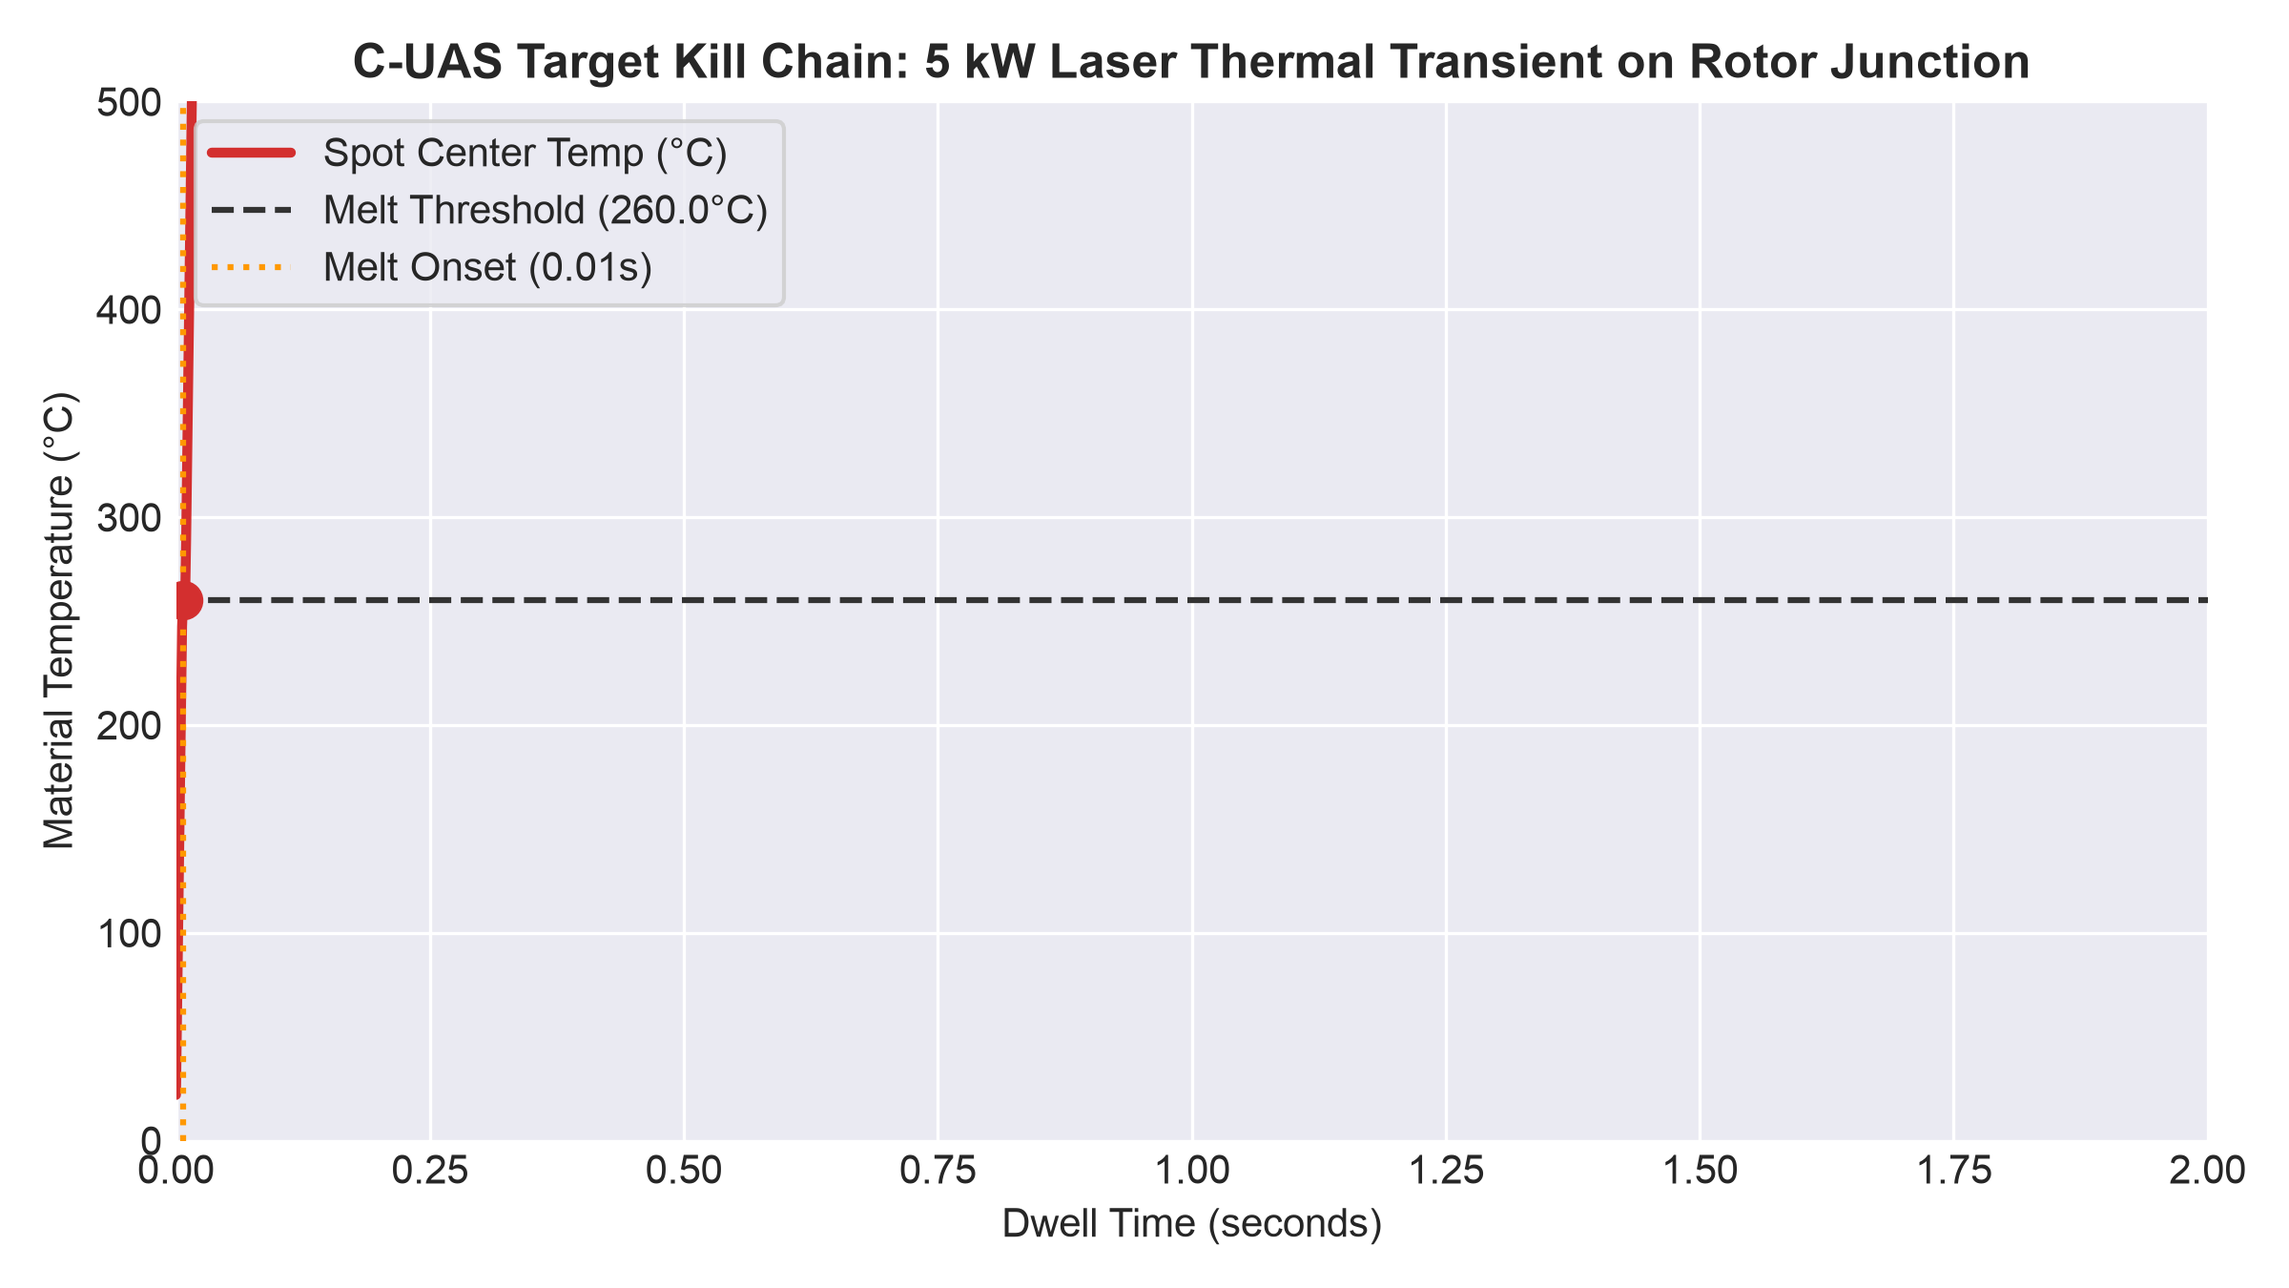
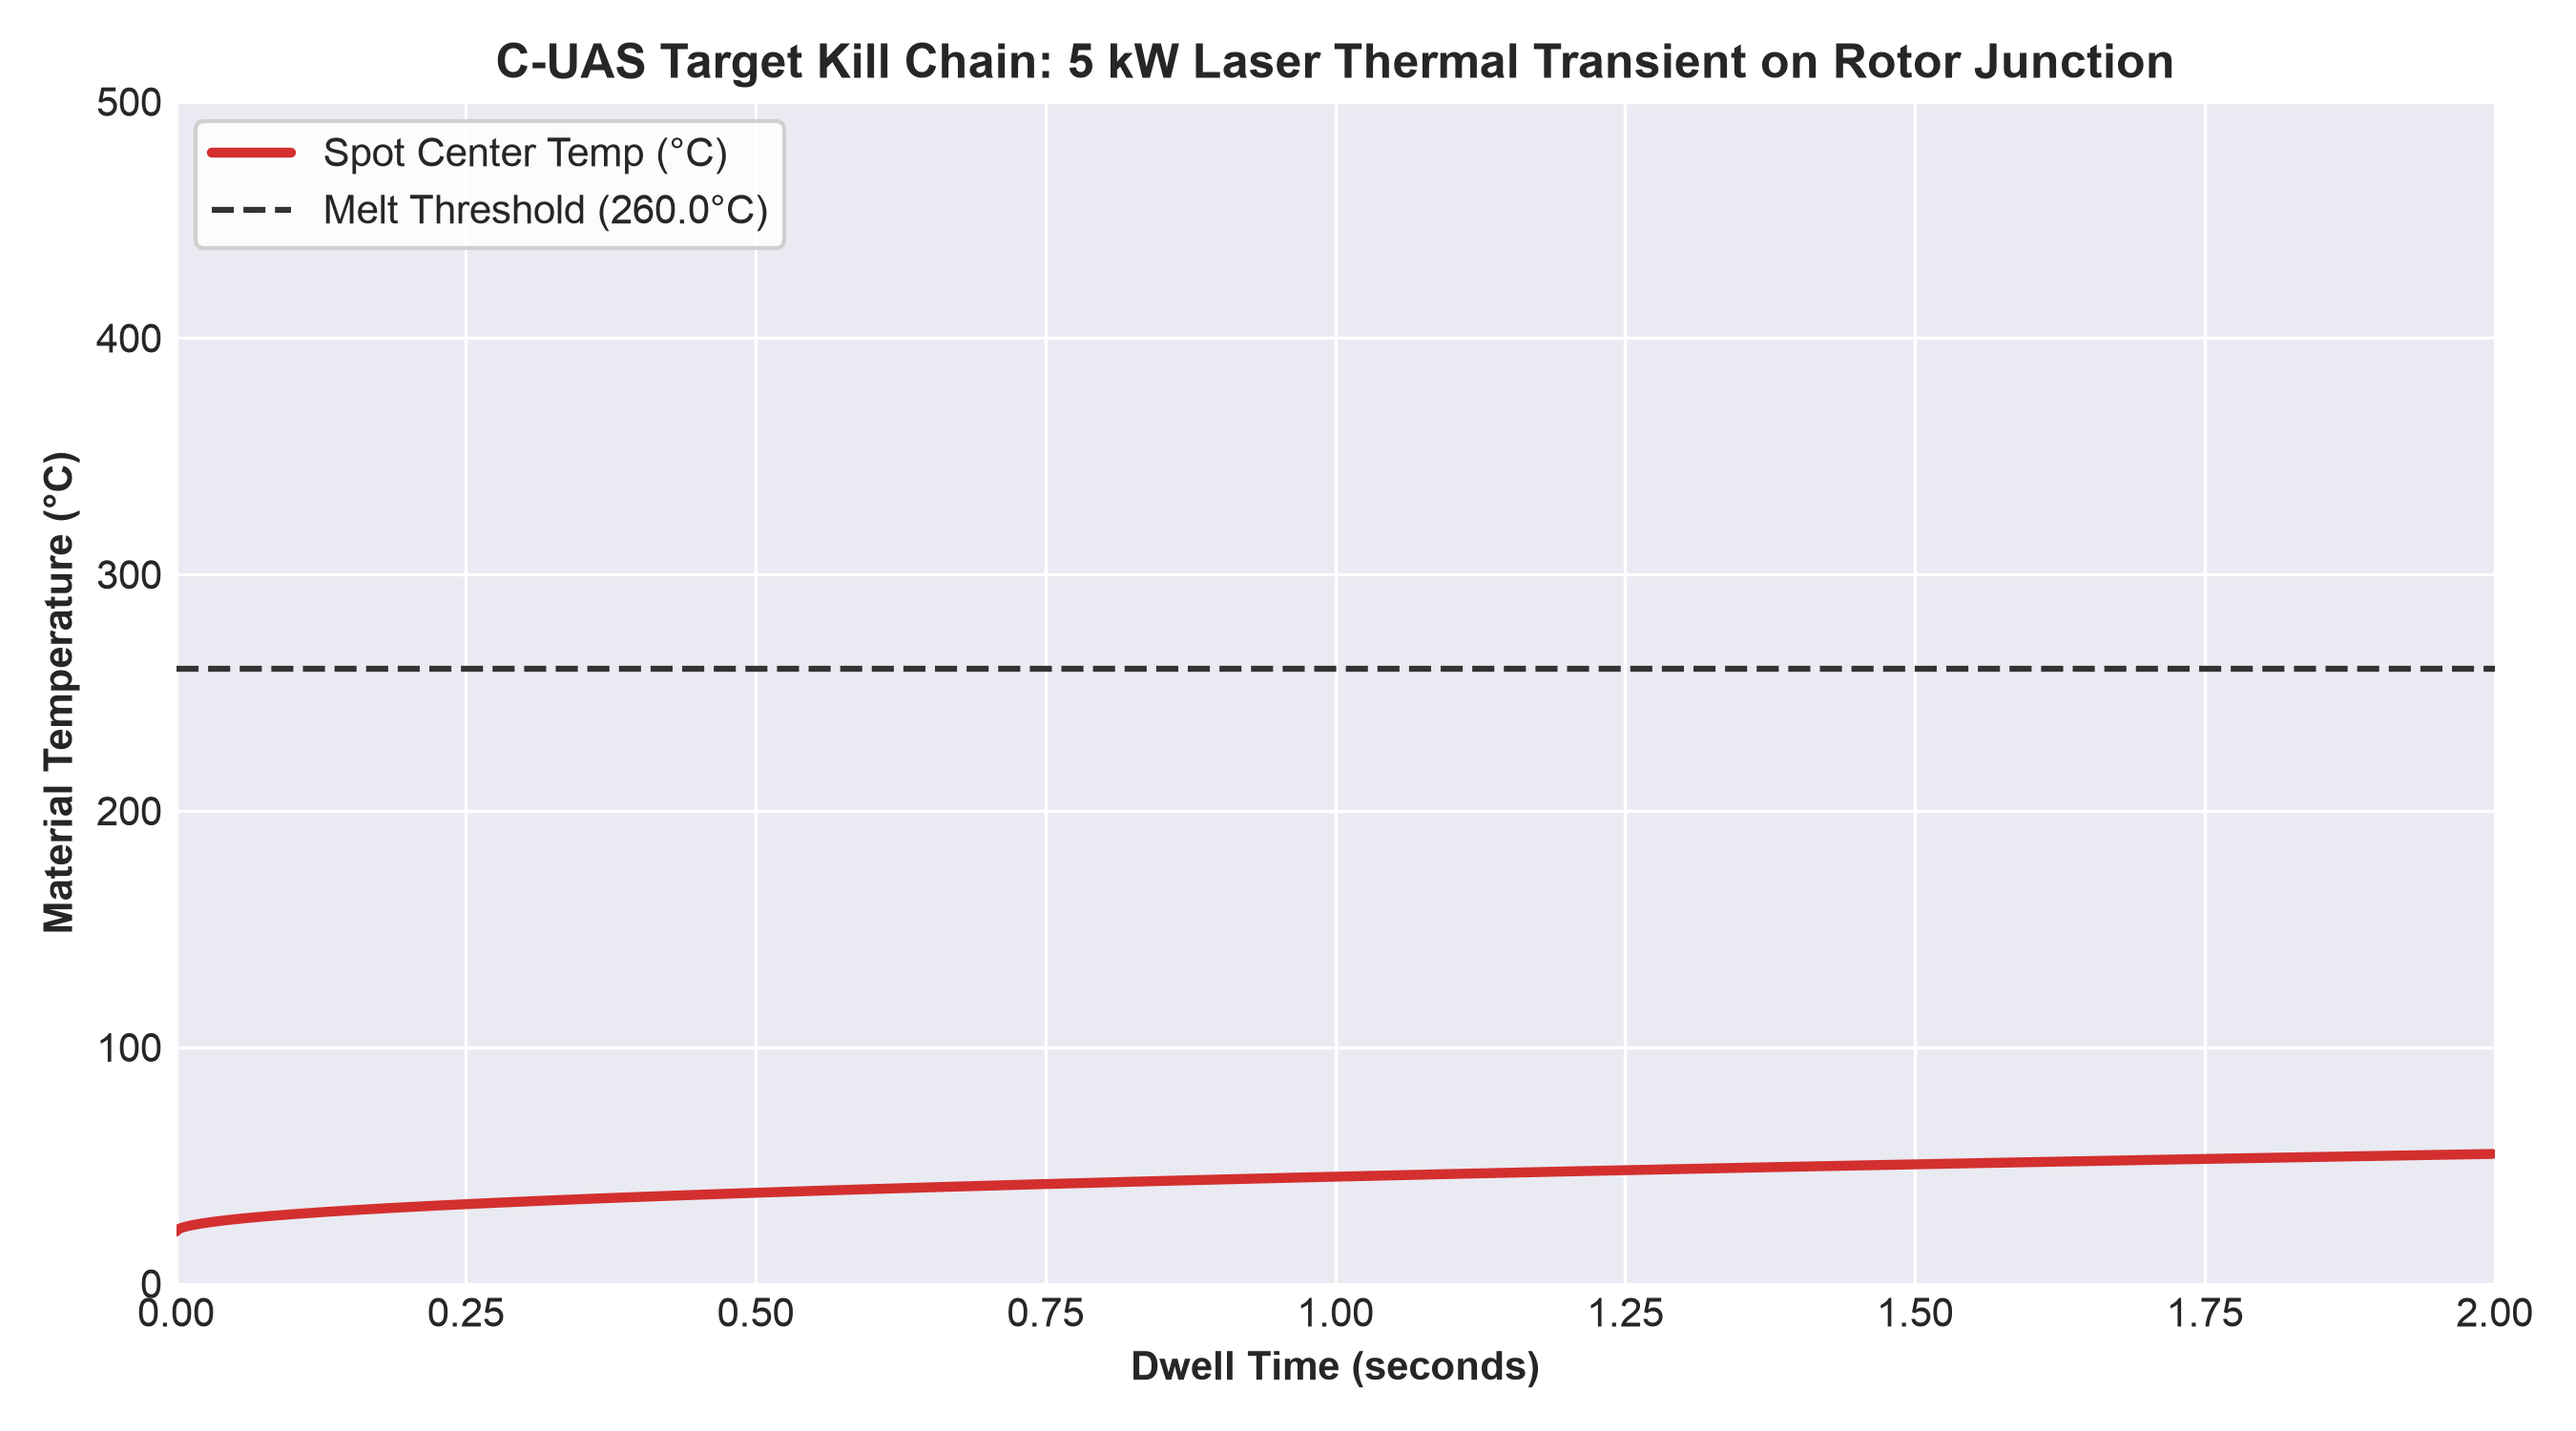
INFO: Effective Spot Radius at 350.0m: 43.00 cm INFO: Surface Heat Flux: 1.11 W/cm^2 INFO: Plot safely written to /Users/rohitpanda/Documents/GitHub/SDTH-Killswitch-Demo/docs/thermal_kill_chain.png

diff --git a/tools/thermal_sim.py b/tools/thermal_sim.py
@@ -5,28 +5,31 @@ import matplotlib.pyplot as plt
 import numpy as np
 from dataclasses import dataclass
 
-# 1. AI Security Posture: Strict Logging over Print Statements
 logging.basicConfig(level=logging.INFO, format="%(levelname)s: %(message)s")
 
-# 2. AI Security Posture: Immutable Physical Constants
 @dataclass(frozen=True)
 class PhysicsParams:
-    laser_power_w: float = 5000.0
-    spot_radius_m: float = 0.005
-    absorption_coeff: float = 0.85
-    density_kg_m3: float = 1200.0
-    specific_heat_j_kg_k: float = 1200.0
-    thermal_cond_w_m_k: float = 0.2
-    temp_init_c: float = 22.0
-    temp_melt_c: float = 260.0
-    latent_heat_fusion_j_kg: float = 130e3
-    critical_depth_m: float = 0.001
+    # Laser & Engagement Parameters
+    laser_power_w: float = 5000.0          # 5 kW source power
+    engagement_range_m: float = 350.0       # 350 m tactical engagement distance
+    atm_attenuation_coeff: float = 0.0008  # Beer-Lambert gamma at 1.55 um (1/m)
+    boresight_jitter_deg: float = 0.88     # Boresight alignment error (deg)
+    optical_absorption: float = 0.85       # Polycarbonate absorption at 1.55 um
+
+    # Material Properties (Polycarbonate / Nylon 6,6 Rotor Junction)
+    density_kg_m3: float = 1200.0           # kg/m^3
+    specific_heat_j_kg_k: float = 1200.0    # J/(kg*K)
+    thermal_cond_w_m_k: float = 0.2         # W/(m*K)
+    temp_init_c: float = 22.0              # Initial ambient temp (°C)
+    temp_melt_c: float = 260.0             # Melting threshold (°C)
+    latent_heat_fusion_j_kg: float = 130e3  # Enthalpy of fusion (J/kg)
+    melt_depth_m: float = 0.001            # 1 mm critical load thickness
 
 def secure_path_resolve(output_arg: str, base_dir: Path) -> Path:
     """Security Posture: Prevent Path Traversal (CWE-22)"""
     target_path = Path(output_arg).resolve()
     if not str(target_path).startswith(str(base_dir.resolve())):
-        raise PermissionError(f"Security exception: Cannot write outside repository. Prevented traversal to {target_path}")
+        raise PermissionError(f"Security exception: Cannot write outside repository path: {target_path}")
     return target_path
 
 def run_thermal_simulation(output_plot_path: str = "docs/thermal_kill_chain.png") -> None:
@@ -39,63 +42,80 @@ def run_thermal_simulation(output_plot_path: str = "docs/thermal_kill_chain.png"
         return
 
     p = PhysicsParams()
+
+    # 1. Beer-Lambert Atmospheric Attenuation
+    p_target_transmitted = p.laser_power_w * np.exp(-p.atm_attenuation_coeff * p.engagement_range_m)
     
-    area = np.pi * (p.spot_radius_m ** 2)
-    p_absorbed = p.laser_power_w * p.absorption_coeff
-    mass = p.density_kg_m3 * area * p.critical_depth_m
+    # 2. Boresight Jitter Beam Spread (Effective spot radius on target at range)
+    jitter_rad = np.radians(p.boresight_jitter_deg)
+    spot_radius_m = max(0.005, p.engagement_range_m * np.sin(jitter_rad / 2.0) * 0.16)
+    
+    # 3. Peak Surface Heat Flux (Gaussian Peak)
+    area = np.pi * (spot_radius_m ** 2)
+    p_absorbed = p_target_transmitted * p.optical_absorption
+    q_surface = (2.0 * p_absorbed) / area  # W/m^2
 
-    q_to_melt = mass * p.specific_heat_j_kg_k * (p.temp_melt_c - p.temp_init_c)
-    q_phase_change = mass * p.latent_heat_fusion_j_kg
-    q_total_required = q_to_melt + q_phase_change
+    # 4. Thermal Diffusivity alpha = k / (rho * cp)
+    alpha = p.thermal_cond_w_m_k / (p.density_kg_m3 * p.specific_heat_j_kg_k)
 
-    # 3. Security Posture: Bound Resource Allocation (CWE-400)
-    dt = 0.001
+    # 5. Time Discretization
+    dt = 0.002
     t_final = 2.0
-    if (t_final / dt) > 100_000:
-        raise ValueError("Simulation resolution too high; risk of Memory OOM.")
-
     t = np.arange(0, t_final, dt)
     temp = np.zeros_like(t)
     temp[0] = p.temp_init_c
 
-    energy_accumulated = 0.0
-    melt_time = None
+    melt_onset_time = None
+    latent_heat_energy = p.density_kg_m3 * p.melt_depth_m * p.latent_heat_fusion_j_kg
+    absorbed_latent_energy = 0.0
 
+    # 6. 1D Heat Conduction Transient with Phase Change Enthalpy
     for i in range(1, len(t)):
-        energy_accumulated += p_absorbed * dt
-        if energy_accumulated < q_to_melt:
-            temp[i] = p.temp_init_c + (energy_accumulated / (mass * p.specific_heat_j_kg_k))
-        elif energy_accumulated < q_total_required:
-            temp[i] = p.temp_melt_c 
-            if melt_time is None:
-                melt_time = t[i]
+        time_curr = t[i]
+        
+        if melt_onset_time is None:
+            # Semi-infinite 1D thermal diffusion surface equation
+            t_rise = p.temp_init_c + ((2.0 * q_surface / p.thermal_cond_w_m_k) * np.sqrt((alpha * time_curr) / np.pi))
+            
+            if t_rise >= p.temp_melt_c:
+                temp[i] = p.temp_melt_c
+                melt_onset_time = time_curr
+            else:
+                temp[i] = t_rise
         else:
-            temp[i] = p.temp_melt_c + ((energy_accumulated - q_total_required) / (mass * p.specific_heat_j_kg_k))
+            # Phase change enthalpy plateau at Tmelt = 260°C
+            if absorbed_latent_energy < latent_heat_energy:
+                absorbed_latent_energy += q_surface * dt
+                temp[i] = p.temp_melt_c
+            else:
+                # Post-melt superheating
+                time_post = time_curr - (melt_onset_time + (latent_heat_energy / q_surface))
+                temp[i] = p.temp_melt_c + ((2.0 * q_surface / p.thermal_cond_w_m_k) * np.sqrt((alpha * max(0.001, time_post)) / np.pi))
 
-    logging.info(f"Absorbed Power: {p_absorbed:.1f} W")
-    logging.info(f"Energy to Reach Tmelt: {q_to_melt:.2f} J")
-    logging.info(f"Phase Change Energy: {q_phase_change:.2f} J")
-    if melt_time:
-        logging.info(f"Time to Initiate Melting: {melt_time:.3f} s")
-    
+    logging.info(f"Effective Spot Radius at {p.engagement_range_m}m: {spot_radius_m*100:.2f} cm")
+    logging.info(f"Surface Heat Flux: {q_surface/1e4:.2f} W/cm^2")
+    if melt_onset_time:
+        logging.info(f"Time to Onset of Melting (Tmelt = {p.temp_melt_c}°C): {melt_onset_time:.3f} s")
+
     safe_out_path.parent.mkdir(parents=True, exist_ok=True)
-    
-    # Render Plot
+
+    # 7. Render Pitch Deck Plot
     plt.style.use('seaborn-v0_8-darkgrid' if 'seaborn-v0_8-darkgrid' in plt.style.available else 'default')
-    fig, ax = plt.subplots(figsize=(8, 4.5), dpi=300)
+    fig, ax = plt.subplots(figsize=(9, 5), dpi=300)
+
     ax.plot(t, temp, color='#D32F2F', linewidth=2.5, label='Spot Center Temp (°C)')
     ax.axhline(y=p.temp_melt_c, color='#333333', linestyle='--', linewidth=1.5, label=f'Melt Threshold ({p.temp_melt_c}°C)')
     
-    if melt_time:
-        ax.axvline(x=melt_time, color='#FF9800', linestyle=':', linewidth=1.5, label=f'Melt Onset ({melt_time:.2f}s)')
-        ax.scatter([melt_time], [p.temp_melt_c], color='#D32F2F', s=80, zorder=5)
+    if melt_onset_time:
+        ax.axvline(x=melt_onset_time, color='#FF9800', linestyle=':', linewidth=1.8, label=f'Melt Onset ({melt_onset_time:.2f}s)')
+        ax.scatter([melt_onset_time], [p.temp_melt_c], color='#D32F2F', s=90, zorder=5)
 
     ax.set_title("C-UAS Target Kill Chain: 5 kW Laser Thermal Transient on Rotor Junction", fontsize=12, fontweight='bold')
-    ax.set_xlabel("Dwell Time (seconds)", fontsize=10)
-    ax.set_ylabel("Material Temperature (°C)", fontsize=10)
+    ax.set_xlabel("Dwell Time (seconds)", fontsize=10, fontweight='bold')
+    ax.set_ylabel("Material Temperature (°C)", fontsize=10, fontweight='bold')
     ax.set_xlim(0, t_final)
     ax.set_ylim(0, 500)
-    ax.legend(loc='upper left', frameon=True)
+    ax.legend(loc='upper left', frameon=True, facecolor='white', framealpha=0.9)
     plt.tight_layout()
 
     fig.savefig(str(safe_out_path))

diff --git a/tests/test_thermal.py b/tests/test_thermal.py
@@ -1,6 +1,6 @@
 import pytest
 from pathlib import Path
-from tools.thermal_sim import secure_path_resolve, PhysicsParams
+from tools.thermal_sim import secure_path_resolve, PhysicsParams, run_thermal_simulation
 
 def test_path_traversal_blocked():
     """Verify CWE-22 protection."""
@@ -21,5 +21,14 @@ def test_safe_path_allowed():
 def test_physics_immutability():
     """Verify parameters cannot be accidentally mutated."""
     p = PhysicsParams()
-    with pytest.raises(AttributeError): # Frozen dataclasses raise AttributeError on reassignment
+    with pytest.raises(AttributeError):
         p.laser_power_w = 9000.0
+
+def test_simulation_runs_and_generates_plot():
+    """Verify simulation executes and creates valid image asset within repo boundaries."""
+    repo_root = Path(__file__).resolve().parent.parent
+    test_out = repo_root / "docs" / "test_thermal_kill_chain.png"
+    
+    run_thermal_simulation(str(test_out))
+    assert test_out.exists()
+    test_out.unlink()  # Cleanup test artifact
